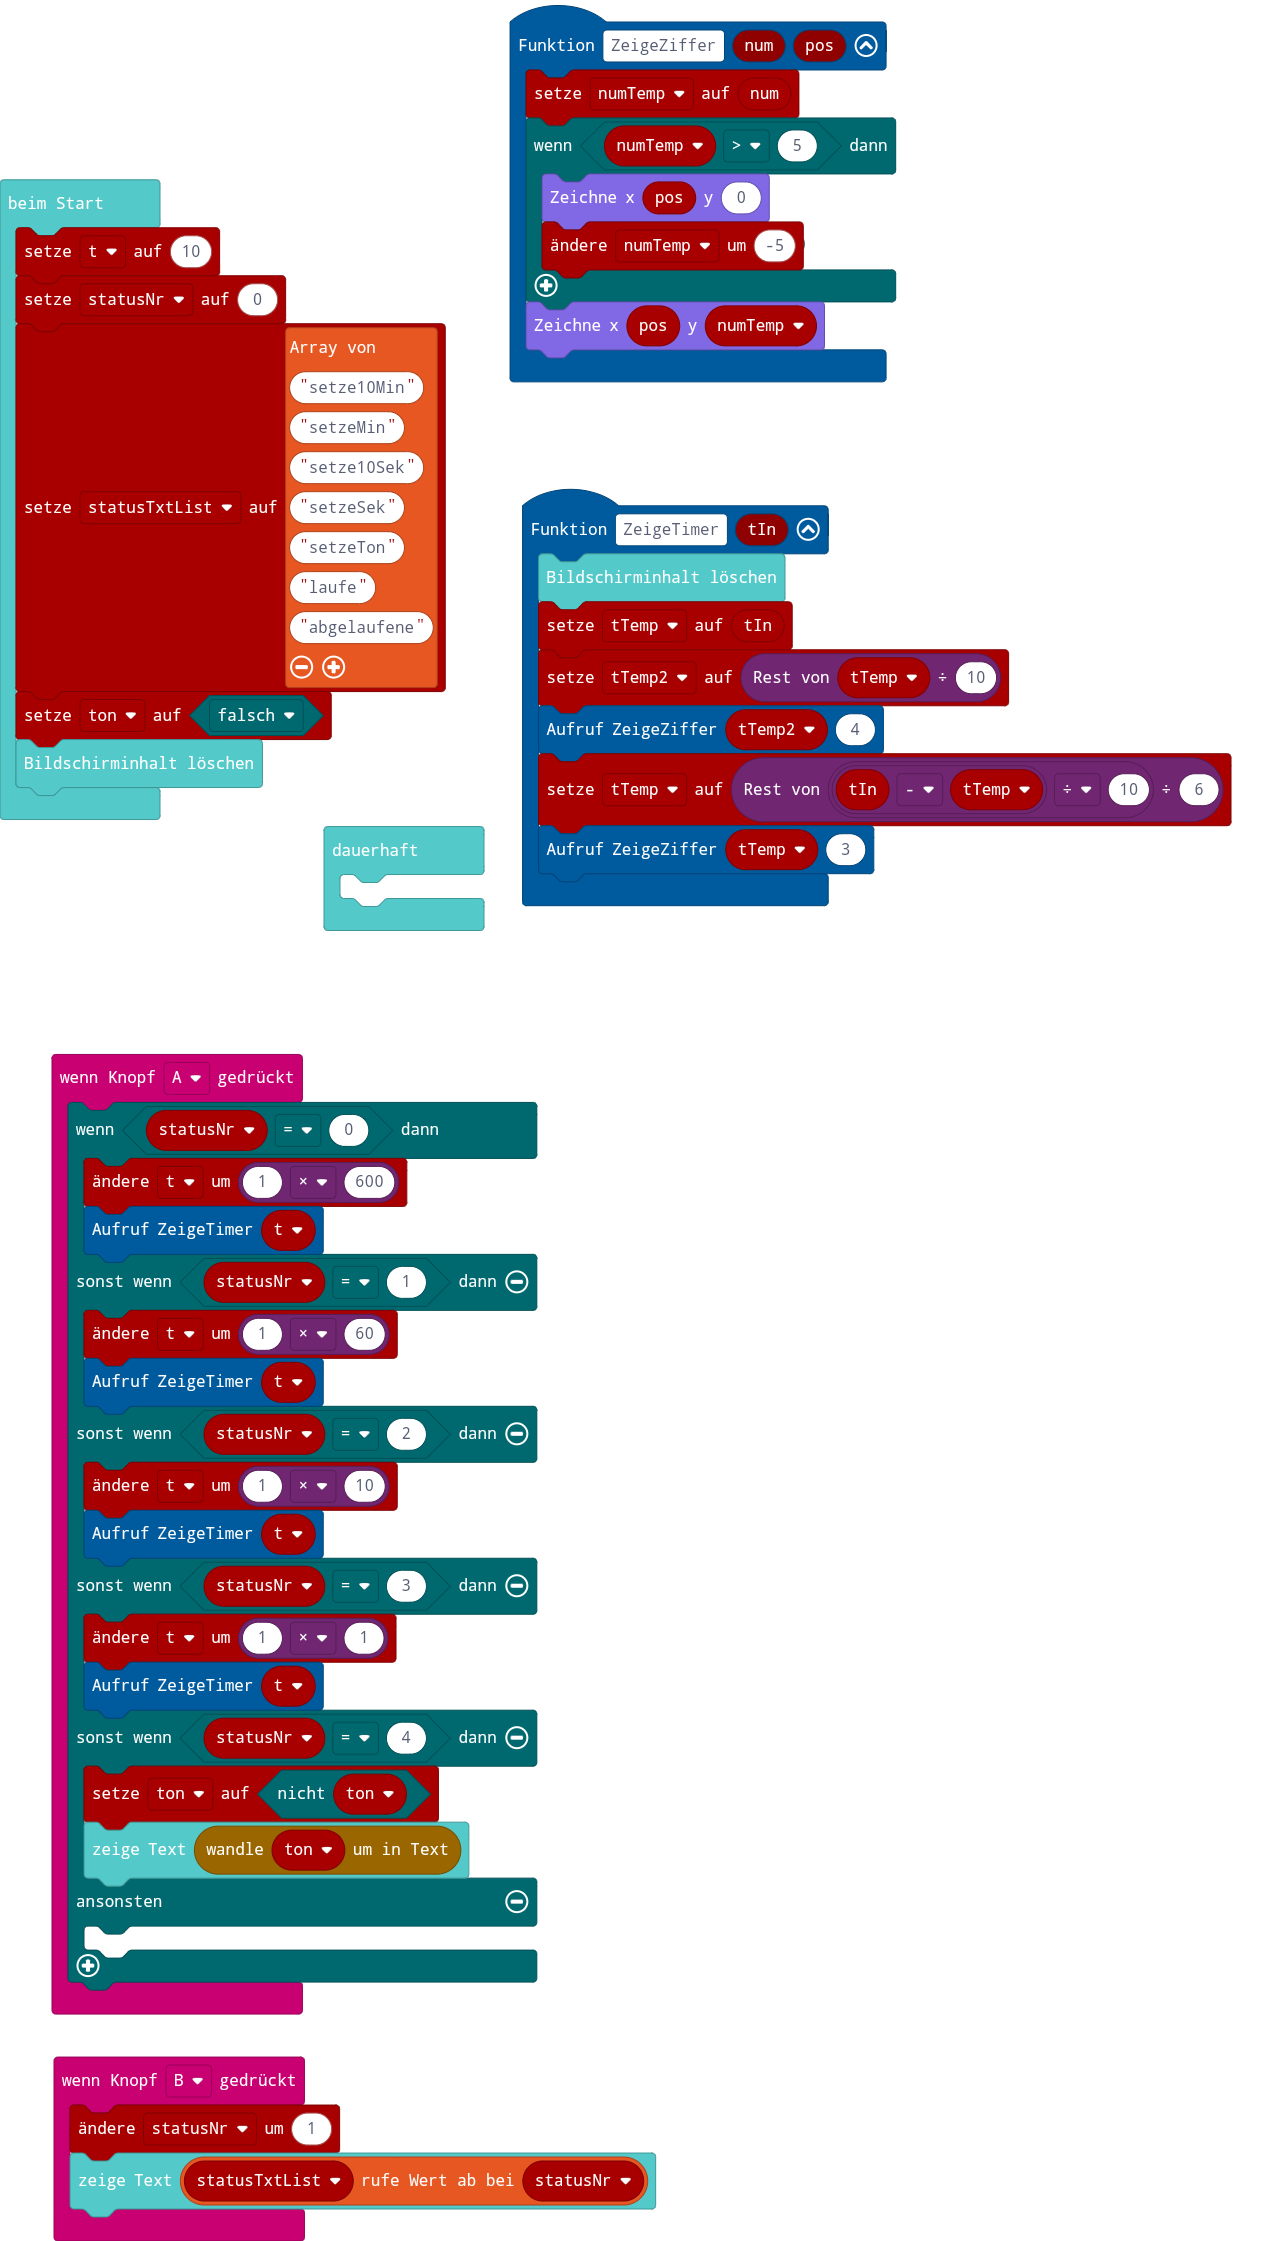
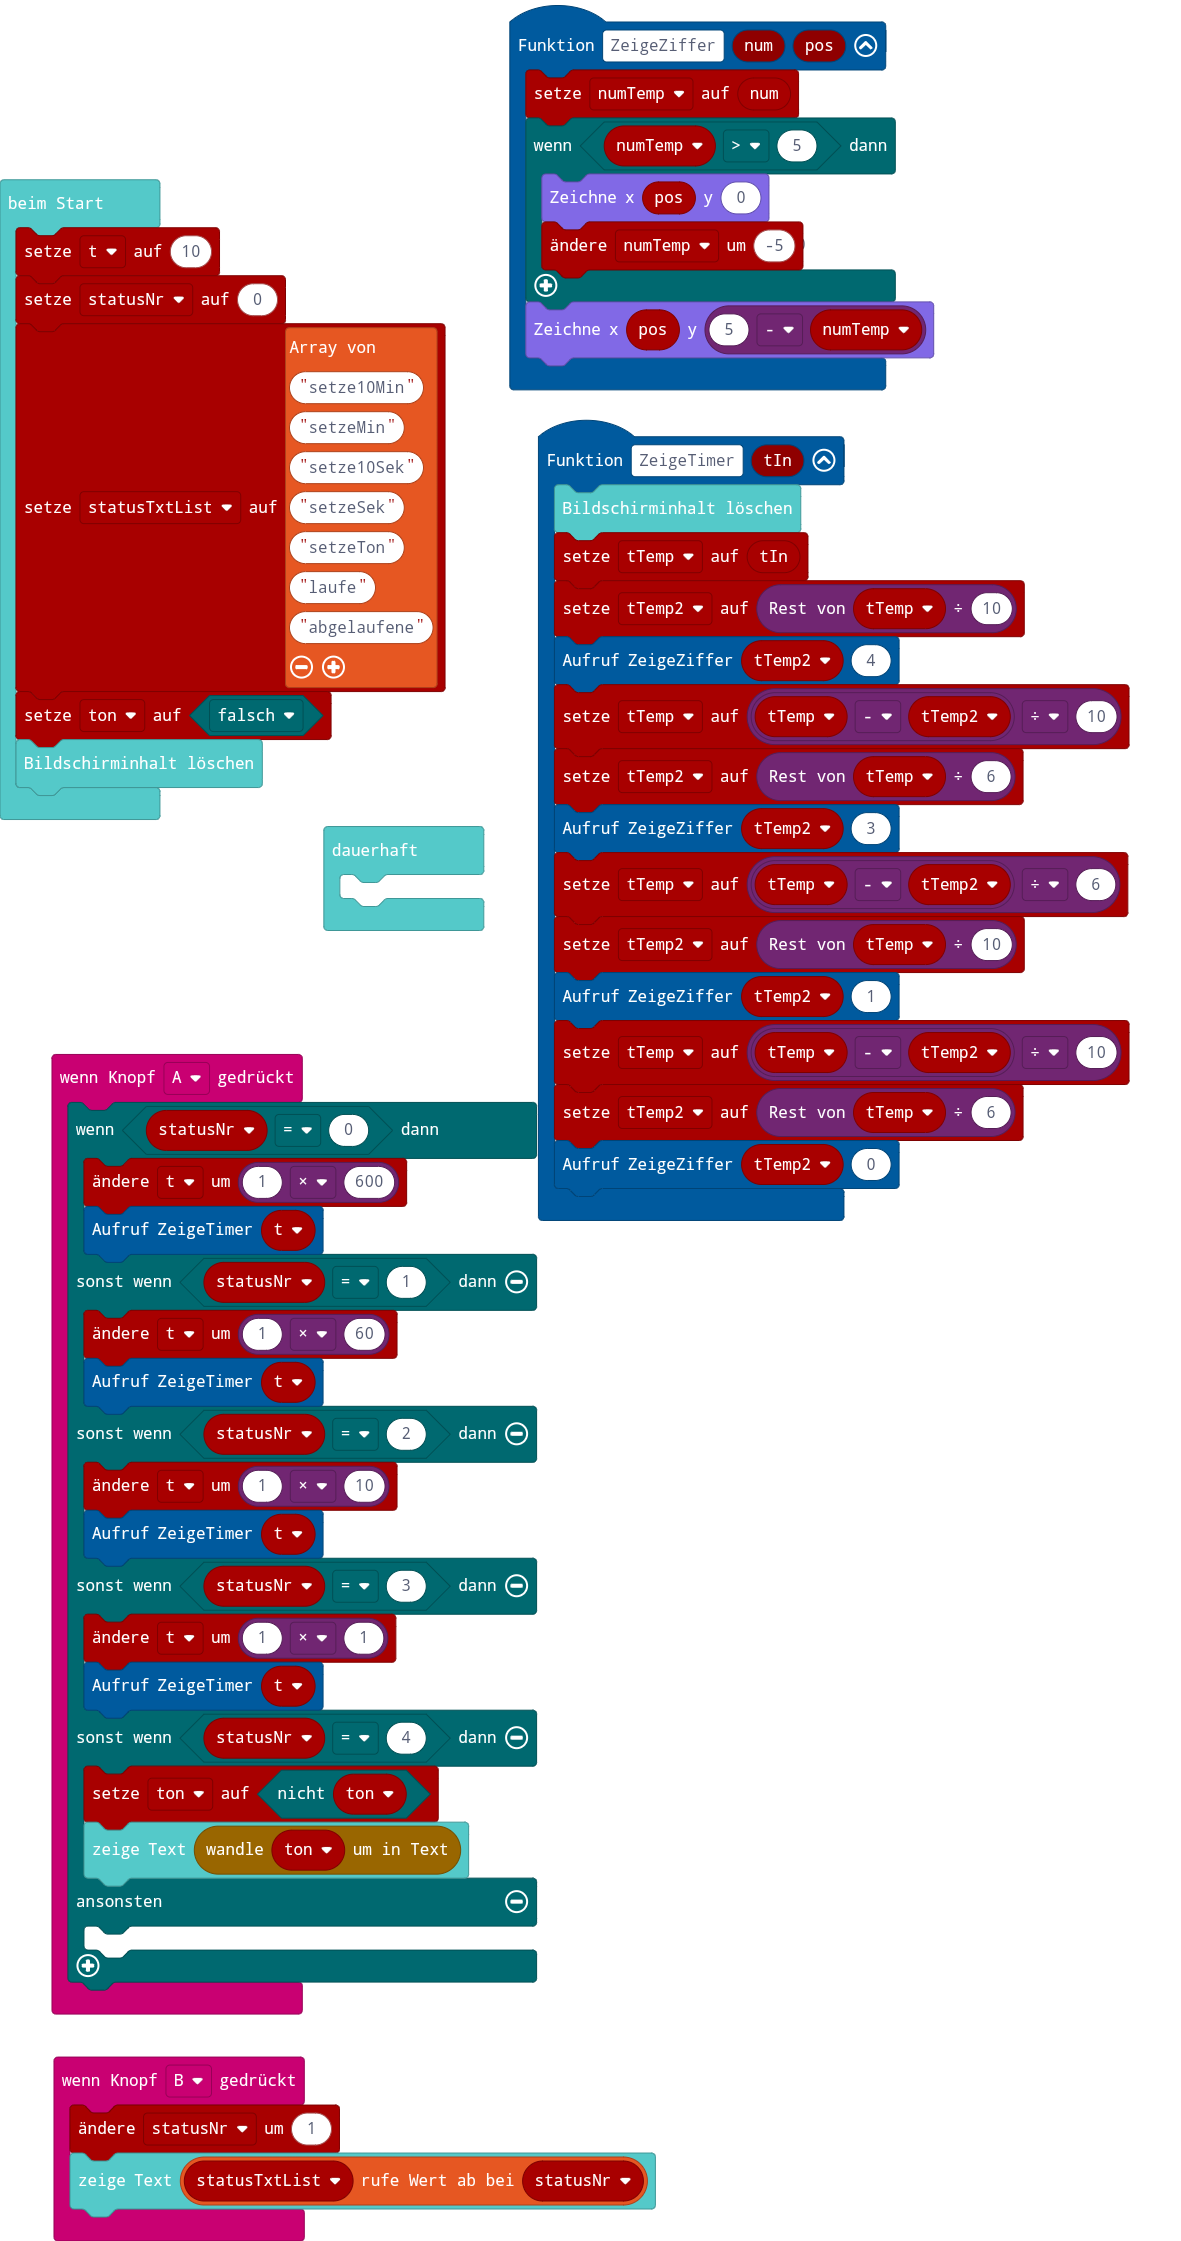
wip still

diff --git a/main.ts b/main.ts
@@ -4,7 +4,7 @@ function ZeigeZiffer (num: number, pos: number) {
         led.plot(pos, 0)
         numTemp += -5
     }
-    led.plot(pos, numTemp)
+    led.plot(pos, 5 - numTemp)
 }
 input.onButtonPressed(Button.A, function () {
     if (statusNr == 0) {
@@ -35,8 +35,15 @@ function ZeigeTimer (tIn: number) {
     tTemp = tIn
     tTemp2 = tTemp % 10
     ZeigeZiffer(tTemp2, 4)
-    tTemp = (tIn - tTemp) / 10 % 6
-    ZeigeZiffer(tTemp, 3)
+    tTemp = (tTemp - tTemp2) / 10
+    tTemp2 = tTemp % 6
+    ZeigeZiffer(tTemp2, 3)
+    tTemp = (tTemp - tTemp2) / 6
+    tTemp2 = tTemp % 10
+    ZeigeZiffer(tTemp2, 1)
+    tTemp = (tTemp - tTemp2) / 10
+    tTemp2 = tTemp % 6
+    ZeigeZiffer(tTemp2, 0)
 }
 let tTemp2 = 0
 let tTemp = 0
